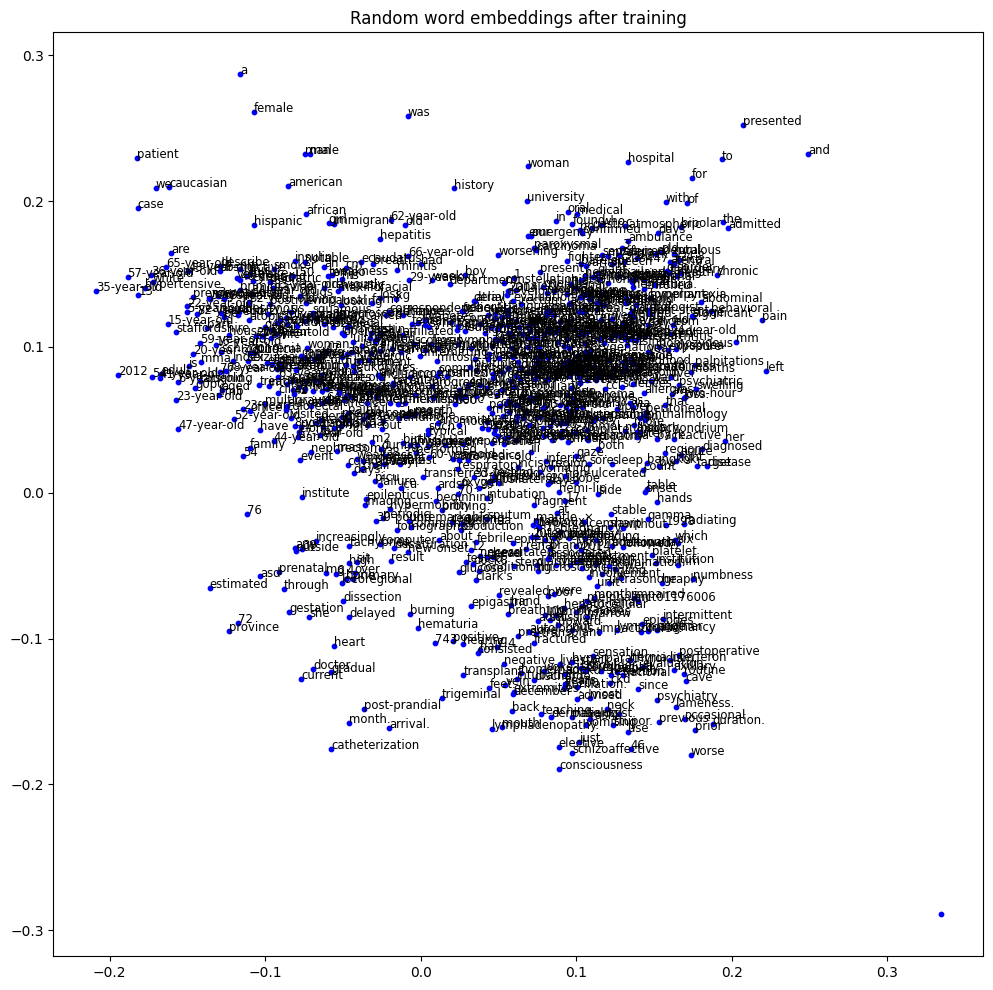
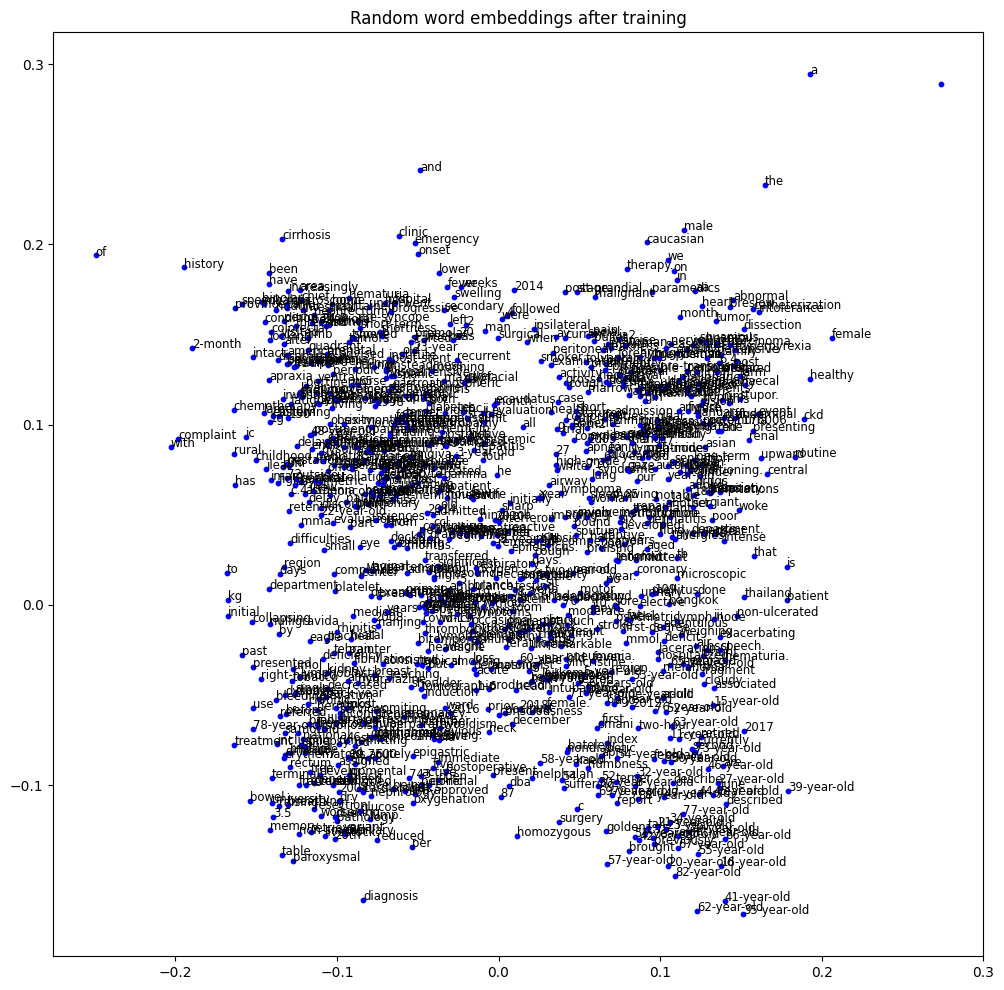
updated

diff --git a/_posts/2023-09-14-create-word-embeddings-from-pubmed-patient summaries.md b/_posts/2023-09-14-create-word-embeddings-from-pubmed-patient summaries.md
@@ -94,7 +94,7 @@ Now that we have our labeled dataset, we can create a corpus.  We take the 1st s
 ...]
 ```
 
-For 100 documents, there are 2451 total words in the corpus.
+For 100 documents, there are 2541 total words in the corpus.
 
 
 ## Convert text to integers
@@ -116,6 +116,7 @@ encod_corp = t.texts_to_sequences(corp)
 # get unique words
 vocab = t.word_index
 
+# print vocab list
 print("vocab:")
 for i,v in enumerate(vocab, 1):
    print(i,v)
@@ -133,7 +134,7 @@ vocab:
 
 Vocab size = 931 unique words
 ``` 
-Out of 2451 total words, 931 unique words are found.
+Out of 2541 total words, 931 unique words are found.
 
 ## Pad the documents
 
@@ -208,31 +209,33 @@ embedding_layer = model.get_layer(index=0)
 
 embedding_matrix = embedding_layer.get_weights()[0]
 ```
-For example, since we set our output_dim = 2, each word is represented by 2 weights:
+Since output_dim = 2, the [embedding layer]() consists of each word represented by 2 weights:
 
 ```
-[[ 4.24065441e-03  6.88085705e-03] (index 0)
- [ 1.85191296e-02  4.87870015e-02] --> 'a'
- [ 3.83142494e-02  1.63575523e-02] --> 'of'
- [-4.21669260e-02  3.95769961e-02] --> 'with'
- [-9.30057839e-03 -5.12727350e-03] --> 'and'
- [ 1.16716996e-02 -3.56635563e-02] --> 'the'
- [ 2.96857245e-02  3.94343249e-02] --> 'to'
- [ 4.73875515e-02  3.56208794e-02] --> 'was'
+[[-1.44563206e-02  4.80025075e-02] (index 0)
+ [-1.59640796e-02 -4.51272503e-02] --> 'a'
+ [ 2.10542418e-02 -8.66242498e-03] --> 'of'
+ [-1.84452906e-02  3.47980298e-02] --> 'with'
+ [ 2.58684158e-04  1.32058598e-02] --> 'and'
+ [ 1.89073570e-02  1.84913613e-02] --> 'the'
+ [-2.98165921e-02 -2.53677499e-02] --> 'to'
+ [-9.29275900e-03  3.30190696e-02] --> 'was'
 ...]]
 ```
 
-The embedding_output is the result of the embedding layer for a given input sequence.  For Document 1, we see that each value from the embedding layer is mapped to a word in that document:  
+The [embedding_output]() is the result of the embedding layer for a given input sequence.  For Document 1, we see that each value from the embedding layer is mapped to a word in that document:  
 
 ```
-[[[-4.98422384e-02  5.66009432e-03] --> 'This'
-  [-3.95929925e-02  4.86173891e-02] --> '60-year-old'
-  [ 4.61821593e-02  2.83356756e-03] --> 'male'
-  [ 4.73875515e-02  3.56208794e-02] --> 'was'
-  [ 5.46847656e-03  1.08509660e-02] --> 'hospitalized'
-  [-3.20219025e-02 -1.05163939e-02] --> 'due'
-  [ 2.96857245e-02  3.94343249e-02] --> 'to'
+[[[ 1.16442069e-02 -4.48367856e-02] --> 'This'
+  [ 4.07602638e-03 -3.78856547e-02] --> '60-year-old'
+  [ 4.98298556e-03 -3.84058841e-02] --> 'male'
+  [-9.29275900e-03  3.30190696e-02] --> 'was'
+  [ 2.67849118e-03 -1.87032111e-02] --> 'hospitalized'
+  [ 3.89778726e-02 -2.80238874e-02] --> 'due'
+  [-2.98165921e-02 -2.53677499e-02] --> 'to'
 ...]]]
+
+
 ```
 
 Let's see how this looks visually.  Since these embeddings are not trained, it would make sense that the words are fairly scattered:
@@ -292,7 +295,7 @@ Since these embeddings are now trained, we can visualize more defined clusters w
 
 In this tutorial, we explored how to create word embeddings from scratch, using a neural network to perform a classification task.  By taking sample text from PubMed patient summaries, we were able to train a neural network to classify patients who had COVID-19 and those that did not.  In doing so, we were also able to train the embeddings, such that words with similar meanings were visually placed closer together.  
 
-We can boost the performance of the training accuracy by adding in a different layer, such as a convolution layer.  I will explore these in future posts.
+We can boost the performance of the training accuracy by adding in a different layer, such as a convolution layer.  I will explore this in a future post.
 
 
 ## References

diff --git a/_posts/2023-10-24-test.md b/_posts/2023-10-24-test.md
@@ -20,6 +20,11 @@ Healthcare is inundated with data - much of it is in unstructured formats such a
 
 While NLP techniques have been used [since the 1950s](https://en.wikipedia.org/wiki/Natural_language_processing) to process and generate text, the ability to generate text with human-like accuracy is extremely [powerful](https://news.mit.edu/2023/ai-models-astrocytes-role-brain-0815).  
 
+https://www.wwt.com/blog/a-brief-history-of-nlp
+https://dspace.mit.edu/bitstream/handle/1721.1/150502/2023_NLP_JPM.pdf?sequence=1&isAllowed=y
+
+https://www.analyticsvidhya.com/blog/2022/07/the-evolution-of-nlp-from-1950-to-2022/
+
 What if you could easily chat with data using natural language?  What if the AI system could better understand your intent?
 
 ## Example 1: Use LLMs with LangChain to chat with a healthcare document 
